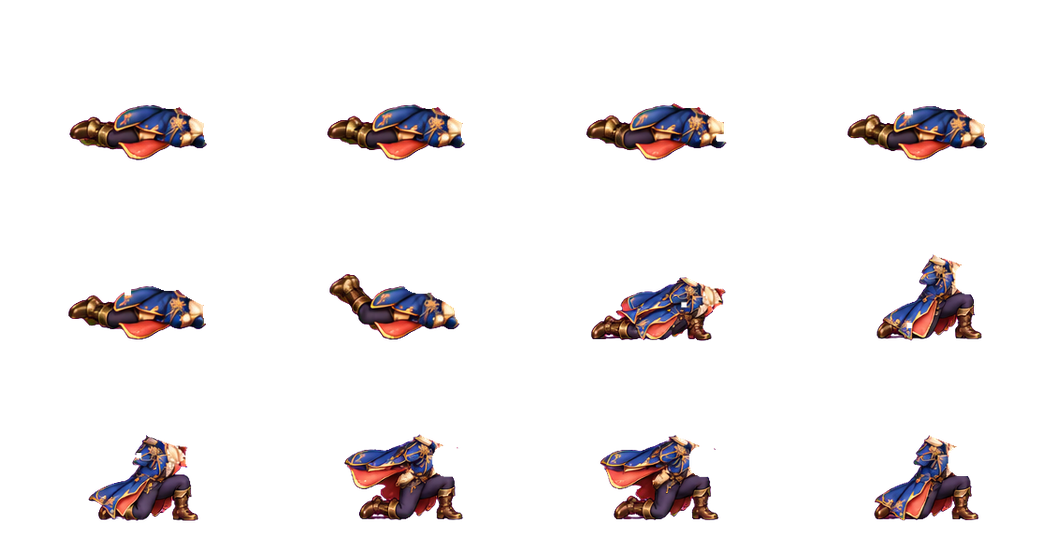
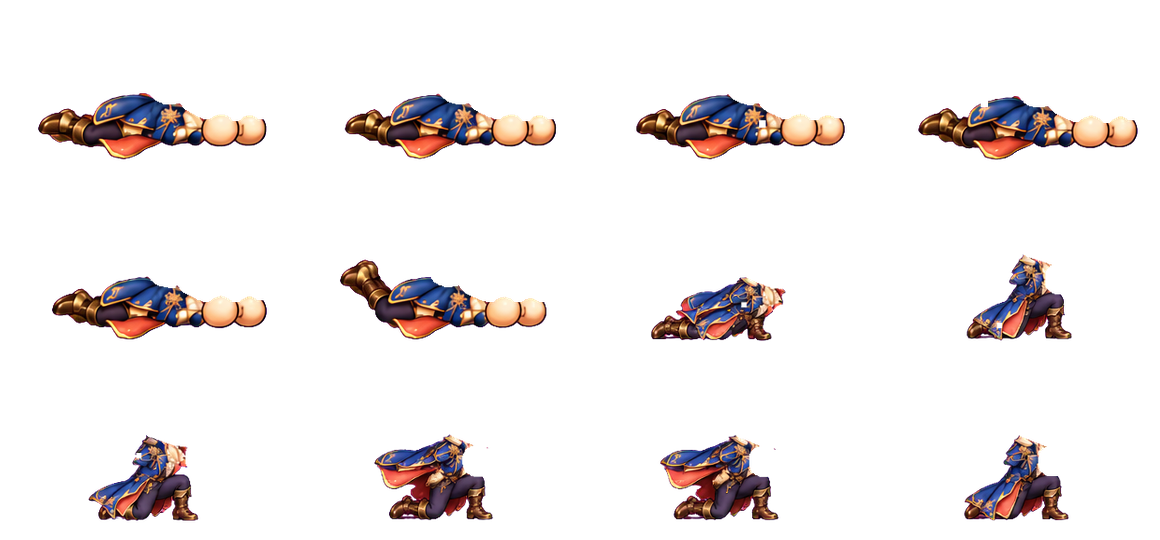
Combat: painted round fists in the prone sheet (DDTank), per-frame hands flag; lobby walk sheet support
Claude-Session: https://claude.ai/code/session_01SNM3Fnyw111WXwJ74f5KjW

diff --git a/src/game/avatar.ts b/src/game/avatar.ts
@@ -4,6 +4,7 @@ import {drawWeaponEnergy} from './weaponEffects';
 import type {CombatRig,WalkingLeg} from './appearance';
 import {asset,avatarRig,AVATAR_UNIT,drawHeadLayers,drawHeadRearLayers,drawPart,ellipse,getFacePortrait,visual} from './appearance';
 import {drawCombatBody,hasCombatFrames} from './combatBody';
+import {drawWalkBody,hasWalkFrames} from './walkBody';
 import {COSTUMES,drawCostume,hasProneCostume} from './costumes';
 import {FACE_REGISTRATION} from './faces';
 import {idleHeadTilt} from './faceExpressions';
@@ -296,8 +297,10 @@ export function drawAvatar(c:CanvasRenderingContext2D,eq:Equipment,x:number,y:nu
    c.restore();c.restore();c.restore();return;
   }
   const rawWalk=rig.walking?clamp((walk-.04)/.75,0,1)*(1-lie):0,walkBlend=rawWalk>.08?1:0,rootY=bounce+m.bodyY,step=WALK_STEP*Math.max(.25,rawWalk);
+  // Outfits with a painted walk cycle (DDTank) switch whole paintings by distance walked; the bob is painted.
+  const sheetWalk=walkBlend>.001&&hasWalkFrames(eq.outfit),distance=m.phase*WALK_STEP*4/(Math.PI*2);
   // Switch one opaque silhouette at contact; alpha-crossfading two sets of legs creates ghost feet.
-  if(rig.walking&&walkBlend>.001){
+  if(rig.walking&&walkBlend>.001&&!sheetWalk){
    c.save();c.globalAlpha*=walkBlend;
    if(rig.walking.hollow){c.save();c.translate(0,rootY);c.translate(0,-32);c.rotate(m.lean);c.translate(0,32);drawPart(c,rig.walking.hollow);c.restore();}
    // The painted stance spreads the legs for a 3/4 view. Walking from that spread
@@ -308,9 +311,12 @@ export function drawAvatar(c:CanvasRenderingContext2D,eq:Equipment,x:number,y:nu
    for(const frame of [far,near])if(frame.grounded)ellipse(c,frame.ankle[0]+2,Math.tan(slope)*frame.ankle[0]-.5,6,1.4,'#10213235');
    drawWalkingLeg(c,rig.walking.far,far);drawWalkingLeg(c,rig.walking.near,near);c.restore();
   }
-  c.save();c.translate(-24*lie,rootY+14*lie);c.translate(0,-32);c.rotate(m.lean+lie*Math.PI/2);c.translate(0,32);
-  if(walkBlend<.999){c.save();c.globalAlpha*=1-walkBlend;drawPart(c,rig.stanceBody);c.restore();}
-  if(rig.walking&&walkBlend>.001){c.save();c.globalAlpha*=walkBlend;drawPart(c,rig.walking.torso);c.restore();}
+  c.save();c.translate(-24*lie,(sheetWalk?0:rootY)+14*lie);c.translate(0,-32);c.rotate(m.lean+lie*Math.PI/2);c.translate(0,32);
+  // While the walk atlas loads, the standing painting stands in for it.
+  const headShift=sheetWalk?drawWalkBody(c,eq,distance):null;
+  if(walkBlend<.999||sheetWalk&&!headShift){c.save();if(!sheetWalk)c.globalAlpha*=1-walkBlend;drawPart(c,rig.stanceBody);c.restore();}
+  if(rig.walking&&walkBlend>.001&&!sheetWalk){c.save();c.globalAlpha*=walkBlend;drawPart(c,rig.walking.torso);c.restore();}
+  if(headShift)c.translate(...headShift);
   c.save();const headPivotX=25*AVATAR_UNIT,headPivotY=-615*AVATAR_UNIT;c.translate(headPivotX,headPivotY);c.rotate(m.headTilt+Math.sin(time/1700)*.006+lively);c.scale(HEAD_SCALE,HEAD_SCALE);c.translate(-headPivotX,-headPivotY);drawHeadRearLayers(c,eq,time,pose,rig.modular);drawPart(c,rig.head);if(rig.neckCloth)drawPart(c,rig.neckCloth,0,0,-5);drawHeadLayers(c,eq,time,pose,rig.modular,context.face);c.restore();
   if(weapon){const level=eq.upgrade??0,w=asset(weaponAssetPath(eq.weapon,level));if(w.complete&&w.naturalWidth){
    c.save();const angle=aiming?-(clamp(context.angle??45,5,90)-35)*Math.PI/180:0;

diff --git a/src/game/combatBody.ts b/src/game/combatBody.ts
@@ -15,7 +15,7 @@ import atlases from './combatAtlas.json';
  * action, the universal head where that painting expects it, the universal skin-colored fists and the
  * weapon strapped on the back. */
 type Point=readonly [number,number];
-interface AtlasEntry {path:string;frames:{head:[number,number]}[];/** The painted sleeve's cloth color, continued by the code-drawn forearm. */sleeve?:string;}
+interface AtlasEntry {path:string;frames:{head:[number,number];/** Arms and fists are painted in this frame (DDTank): the game draws no hands. */hands?:boolean}[];/** The painted sleeve's cloth color, continued by the code-drawn forearm. */sleeve?:string;}
 const ATLASES=atlases as unknown as Record<string,AtlasEntry>;
 const tinted=new Map<string,HTMLCanvasElement>();
 
@@ -64,18 +64,19 @@ export function drawCombatBody(c:CanvasRenderingContext2D,eq:Equipment,head:Avat
  const cloth=eq.colors?.outfit??entry.sleeve??CATALOG[eq.outfit]?.color??'#2b3f9e';
  const arm=(k:0|1,to:Fist)=>{const [shoulder,elbow]=COMBAT_MANNEQUIN[name].sleeves[k],at=(p:Point):Point=>[p[0]+dx,p[1]+dy+breath*.4];
   drawArm(c,at(shoulder),at(elbow),to,cloth,eq.skin);};
- if(!prone){arm(0,fist(0));drawFist(c,eq.skin,fist(0),.9);}
+ const drawnHands=!entry.frames[index]?.hands;
+ if(drawnHands&&!prone){arm(0,fist(0));drawFist(c,eq.skin,fist(0),.9);}
  const atHead=(draw:()=>void)=>{c.save();c.translate(measured[0],measured[1]+breath);c.rotate(state.lively+hit*.05);c.scale(HEAD_SCALE,HEAD_SCALE);
   c.translate(-(HEAD_SILHOUETTE_CENTER[0]-625)*AVATAR_UNIT,-(HEAD_SILHOUETTE_CENTER[1]-1225)*AVATAR_UNIT);draw();c.restore();};
  // face: the head and the hair; then the outfit painting, then hat and glasses (DDTank's faceUp).
  atHead(()=>{drawHeadRearLayers(c,eq,state.time,state.pose,state.modular);drawPart(c,head);drawHeadLayers(c,eq,state.time,state.pose,state.modular,state.face,'hair');});
- if(prone)arm(0,fist(0));
- arm(1,fist(1));
+ if(drawnHands&&prone)arm(0,fist(0));
+ if(drawnHands)arm(1,fist(1));
  c.drawImage(atlas,sx,sy,cw,ch,-ox/ppu,-oy/ppu+breath*.4,cw/ppu,ch/ppu);
  atHead(()=>drawHeadLayers(c,eq,state.time,state.pose,state.modular,state.face,'top'));
  // The near fist goes over everything, under the chin while lying, like in DDTank.
- if(prone)drawFist(c,eq.skin,fist(0),1);
- const front=fist(1);drawFist(c,eq.skin,front,1,prone?.8:1);
+ if(drawnHands&&prone)drawFist(c,eq.skin,fist(0),1);
+ const front=fist(1);if(drawnHands)drawFist(c,eq.skin,front,1,prone?.8:1);
  if(state.weapon)drawThrowCue(c,name,state,front[0],front[1],color);
  c.restore();return true;
 }

diff --git a/src/game/walkBody.ts b/src/game/walkBody.ts
@@ -1,0 +1,33 @@
+import type {Equipment} from '../../shared/catalog';
+import {asset} from './appearance';
+import {recolorItem,tintSkin} from './recolor';
+import contract from './rig/walkFrames.json';
+import atlases from './walkAtlas.json';
+
+/** DDTank-style lobby walk (docs/walk-frames.md): the outfit's painted walk cycle, hands included, picked by
+ * the distance walked; the universal head goes on top where each painting expects it. */
+interface WalkAtlasEntry {path:string;standing:[number,number];frames:{head:[number,number]}[];}
+const ATLASES=atlases as unknown as Record<string,WalkAtlasEntry>;
+const {columns,cell:[cw,ch],origin:[ox,oy],pixelsPerUnit:ppu}=contract.atlas;
+const tinted=new Map<string,HTMLCanvasElement>();
+
+export const hasWalkFrames=(outfit:string)=>!!ATLASES[outfit];
+/** The outfit's walk atlas with its Color Ticket and the body color applied, or null while it loads. */
+function walkAtlas(eq:Equipment):HTMLCanvasElement|null {
+ const entry=ATLASES[eq.outfit];if(!entry)return null;
+ const image=asset(entry.path);if(!image.complete||!image.naturalWidth)return null;
+ const key=`${eq.outfit}:${eq.colors?.outfit??''}:${eq.skin??''}`,known=tinted.get(key);if(known)return known;
+ const out=document.createElement('canvas');out.width=image.naturalWidth;out.height=image.naturalHeight;out.getContext('2d')!.drawImage(image,0,0);
+ recolorItem(out,eq.outfit,eq.colors?.outfit);tintSkin(out,eq.skin,true);
+ tinted.set(key,out);if(tinted.size>24)tinted.delete(tinted.keys().next().value!);return out;
+}
+/** Frame for a distance walked in avatar units: each painting holds for `frameUnits`, so the feet never slide. */
+export const walkFrameIndex=(distance:number)=>{const n=contract.frames.length;return ((Math.floor(distance/contract.frameUnits)%n)+n)%n;};
+/** Draws the walking body facing right in avatar units from the contact point and returns how far the head
+ * moves from where the standing avatar wears it, or null when the outfit has no walk atlas (yet). */
+export function drawWalkBody(c:CanvasRenderingContext2D,eq:Equipment,distance:number):[number,number]|null {
+ const atlas=walkAtlas(eq),entry=ATLASES[eq.outfit];if(!atlas||!entry)return null;
+ const index=walkFrameIndex(distance),sx=(index%columns)*cw,sy=Math.floor(index/columns)*ch,head=entry.frames[index].head;
+ c.drawImage(atlas,sx,sy,cw,ch,-ox/ppu,-oy/ppu,cw/ppu,ch/ppu);
+ return [head[0]-entry.standing[0],head[1]-entry.standing[1]];
+}

diff --git a/scripts/build-walk-atlas.py b/scripts/build-walk-atlas.py
@@ -1,0 +1,127 @@
+"""Packs an outfit's Codex walk sheet (docs/combat-art-prompts/walk.txt, template docs/templates/walk.png)
+into the lobby walk atlas, like scripts/build-combat-atlas.py does for combat: per frame it keys the
+magenta out, finds the green head, scales the sheet so the head matches the universal head, removes the
+green and places the body in its atlas cell with the head at the standing avatar's x and the lowest
+painted row on the ground. The measured head height of every frame (the step's bob) goes to
+src/game/walkAtlas.json, so the game draws the player's head where the painting expects it.
+
+Usage: python3 scripts/build-walk-atlas.py <outfit-id> [walk.png]
+Default input: test-results/codex-walk/out/<id without outfit->-walk.png
+Output: public/assets/outfits/walk/<id>.png, src/game/walkAtlas.json, test-results/walk/<id>/"""
+import json, os, sys
+import numpy as np
+from PIL import Image, ImageDraw, ImageFilter
+
+contract = json.load(open('src/game/rig/walkFrames.json'))
+combat = json.load(open('src/game/rig/combatFrames.json'))
+T, A = contract['template'], contract['atlas']
+HS, unit, hs = combat['headSilhouette'], combat['avatarUnit'], contract['headScale']
+outfit = sys.argv[1]
+short = outfit.removeprefix('outfit-')
+path = sys.argv[2] if len(sys.argv) > 2 else f'test-results/codex-walk/out/{short}-walk.png'
+report_dir = f'test-results/walk/{outfit}'
+os.makedirs(report_dir, exist_ok=True)
+os.makedirs('public/assets/outfits/walk', exist_ok=True)
+
+head_px = HS['width'] * hs * unit * A['pixelsPerUnit']
+aspect = HS['height'] / HS['width']
+# Where the standing avatar wears the head (avatar units from the contact point): the silhouette's centre,
+# scaled by HEAD_SCALE about the head pivot, in the 1254 px avatar space centred on (625, 1225).
+px, py = contract['headPivot']
+standing = ((px + (HS['left'] + HS['width'] / 2 - px) * hs - 625) * unit, (py + (HS['top'] + HS['height'] / 2 - py) * hs - 1225) * unit)
+
+
+def unkey(rgb):
+    r, g, b = (rgb[..., k].astype(float) for k in range(3))
+    key = np.minimum(r, b) - g
+    alpha = np.clip((150 - key) / 110, 0, 1)
+    edge = (key > 40) & (key <= 150)
+    low = np.minimum(r, b)
+    r = np.where(edge, np.minimum(r, g + (r - low) + 40), r)
+    b = np.where(edge, np.minimum(b, g + (b - low) + 60), b)
+    return np.dstack([r, g, b, alpha * 255])
+
+
+def grow(mask, size):
+    return np.asarray(Image.fromarray((mask * 255).astype('uint8')).filter(ImageFilter.MaxFilter(size))) > 0
+
+
+src = Image.open(path).convert('RGB')
+if src.size != (T['cell'] * T['columns'], T['cell'] * T['rows']):
+    src = src.resize((T['cell'] * T['columns'], T['cell'] * T['rows']), Image.LANCZOS)
+rgb = np.asarray(src)
+rgba = unkey(rgb)
+r, g, b = (rgb[..., k].astype(float) for k in range(3))
+green = g - np.maximum(r, b)
+head_mask = (green > 90) & (g > 150)
+rim = (green > 35) & ~head_mask
+clean = rgba.copy()
+clean[grow(head_mask | rim, 7), 3] = 0
+
+issues, warnings, frames_meta = [], [], []
+atlas = Image.new('RGBA', (A['columns'] * A['cell'][0], A['rows'] * A['cell'][1]), (0, 0, 0, 0))
+measured = []
+for i, frame in enumerate(contract['frames']):
+    cx, cy = (i % T['columns']) * T['cell'], (i // T['columns']) * T['cell']
+    ys, xs = np.nonzero(head_mask[cy:cy + T['cell'], cx:cx + T['cell']])
+    if len(xs) < 500:
+        issues.append(f'{frame["name"]}: cabeça verde não encontrada')
+        measured.append(None)
+        continue
+    left, right, top = np.percentile(xs, 0.3), np.percentile(xs, 99.7), np.percentile(ys, 0.3)
+    measured.append(((left + right) / 2, top + (right - left + 1) * aspect / 2, right - left + 1))
+widths = [m[2] for m in measured if m]
+median = float(np.median(widths)) if widths else 1
+for m, frame in zip(measured, contract['frames']):
+    if m and abs(m[2] / median - 1) > .06:
+        warnings.append(f'{frame["name"]}: cabeça {m[2] / median:.0%} da mediana')
+scale = head_px / median
+for i, (m, frame) in enumerate(zip(measured, contract['frames'])):
+    if not m:
+        frames_meta.append(None)
+        continue
+    hx, hy, _ = m
+    cx, cy = (i % T['columns']) * T['cell'], (i // T['columns']) * T['cell']
+    figure = clean[cy:cy + T['cell'], cx:cx + T['cell']].copy()
+    sw, sh = median, median * aspect
+    mask = Image.new('L', (T['cell'], T['cell']), 0)
+    ImageDraw.Draw(mask).ellipse([hx - sw / 2, hy - sh / 2, hx + sw / 2, hy + sh * .2], fill=255)
+    figure[np.asarray(mask) > 0, 3] = 0
+    solid = np.nonzero(figure[..., 3] > 128)
+    if len(solid[0]) < 4000:
+        issues.append(f'{frame["name"]}: corpo quase vazio')
+        frames_meta.append(None)
+        continue
+    if np.concatenate([(figure[..., 3] > 128)[:3].ravel(), (figure[..., 3] > 128)[-3:].ravel(), (figure[..., 3] > 128)[:, :3].ravel(), (figure[..., 3] > 128)[:, -3:].ravel()]).any():
+        warnings.append(f'{frame["name"]}: pintura encosta na borda da célula')
+    ground = solid[0].max() + 1
+    piece = Image.fromarray(figure.astype('uint8'), 'RGBA').resize((round(T['cell'] * scale), round(T['cell'] * scale)), Image.LANCZOS)
+    ax = (i % A['columns']) * A['cell'][0] + A['origin'][0]
+    ay = (i // A['columns']) * A['cell'][1] + A['origin'][1]
+    ox, oy = round(ax + standing[0] * A['pixelsPerUnit'] - hx * scale), round(ay - ground * scale)
+    layer = Image.new('RGBA', atlas.size, (0, 0, 0, 0))
+    layer.paste(piece, (ox, oy))
+    box = ((i % A['columns']) * A['cell'][0], (i // A['columns']) * A['cell'][1])
+    own = layer.crop((box[0], box[1], box[0] + A['cell'][0], box[1] + A['cell'][1]))
+    lost = np.asarray(layer)[..., 3].astype(bool).sum() - np.asarray(own)[..., 3].astype(bool).sum()
+    if lost > 50:
+        warnings.append(f'{frame["name"]}: {lost} px fora da célula do atlas')
+    atlas.alpha_composite(own, box)
+    frames_meta.append({'head': [round(standing[0], 2), round((hy - ground) * scale / A['pixelsPerUnit'], 2)]})
+
+atlas_path = f'public/assets/outfits/walk/{outfit}.png'
+complete = all(frames_meta) and not issues
+if complete:
+    atlas.save(atlas_path, optimize=True)
+    meta_path = 'src/game/walkAtlas.json'
+    meta = json.load(open(meta_path)) if os.path.exists(meta_path) else {}
+    meta[outfit] = {'path': '/' + atlas_path.removeprefix('public/'), 'standing': [round(v, 2) for v in standing], 'frames': frames_meta}
+    json.dump(dict(sorted(meta.items())), open(meta_path, 'w'), indent=1)
+atlas.save(f'{report_dir}/atlas.png')
+json.dump({'outfit': outfit, 'complete': complete, 'issues': issues, 'warnings': warnings, 'standingHead': standing, 'frames': frames_meta}, open(f'{report_dir}/report.json', 'w'), indent=1)
+print(f'{outfit}: {"OK" if complete else "INCOMPLETO"} -> {atlas_path if complete else report_dir}')
+for line in issues:
+    print('ERRO', line)
+for line in warnings:
+    print('AVISO', line)
+sys.exit(0 if complete else 1)

diff --git a/scripts/build-combat-atlas.py b/scripts/build-combat-atlas.py
@@ -1,14 +1,14 @@
 """Packs an outfit's two Codex combat sheets (docs/combat-frames.md) into the game's combat atlas.
 
-Each sheet is 3x2 cells of 512 px on magenta with the head as a flat green silhouette and the two fists
-as cyan discs (the game draws the universal fists there). Per frame this script keys the magenta and the
+Each sheet is 3x2 cells of 512 px on magenta with the head as a flat green silhouette; the hands are painted
+in the sheet over the template's skin discs, like DDTank (older sheets left cyan discs for code-drawn fists). Per frame this script keys the magenta and the
 cyan out, finds the green head (top and width; fists may cover the chin), scales the
 sheet so the head matches the universal head, removes the green, and places the body in its atlas cell
 with the head at the contract's x and the lowest painted row on the ground line. The measured head
 height of every frame goes to src/game/combatAtlas.json, so the game puts the player's head exactly
 where the painting expects it. No per-outfit numbers.
 
-Usage: python3 scripts/build-combat-atlas.py <outfit-id> [ground.png throw.png]
+Usage: python3 scripts/build-combat-atlas.py <outfit-id> [ground.png throw.png]   ('-' keeps that sheet's frames from the current atlas)
        python3 scripts/build-combat-atlas.py --fist fist.png   (the universal fist, docs/combat-art-prompts/fist.txt)
 Default input: test-results/codex-combat/out/<id without outfit->-{ground,throw}.png
 Output: public/assets/outfits/combat/<id>.png, src/game/combatAtlas.json, test-results/combat/<id>/"""
@@ -66,7 +66,22 @@ issues, frames_meta, warnings = [], [None] * len(NAMES), []
 atlas = Image.new('RGBA', (A['columns'] * A['cell'][0], A['rows'] * A['cell'][1]), (0, 0, 0, 0))
 silhouette = None
 size_limits = []
+previous = json.load(open('src/game/combatAtlas.json')).get(outfit) if os.path.exists('src/game/combatAtlas.json') else None
 for sheet, path in zip(contract['sheets'], inputs):
+    if path == '-':
+        # Keep this sheet as it is in the current atlas (repainting one sheet at a time).
+        old = Image.open(f'public/assets/outfits/combat/{outfit}.png').convert('RGBA')
+        (ow, oh), (oox, ooy) = previous.get('cell', [260, 180]), previous.get('origin', [160, 160])
+        for name in sheet['frames']:
+            index = NAMES.index(name)
+            box = ((index % A['columns']) * A['cell'][0], (index // A['columns']) * A['cell'][1])
+            src = ((index % A['columns']) * ow, (index // A['columns']) * oh)
+            piece = old.crop((*src, src[0] + ow, src[1] + oh))
+            layer = Image.new('RGBA', tuple(A['cell']), (0, 0, 0, 0))
+            layer.paste(piece, (A['origin'][0] - oox, A['origin'][1] - ooy))
+            atlas.alpha_composite(layer, box)
+            frames_meta[index] = previous['frames'][index]
+        continue
     src = Image.open(path).convert('RGB')
     if src.size != (T['cell'] * T['columns'], T['cell'] * T['rows']):
         src = src.resize((T['cell'] * T['columns'], T['cell'] * T['rows']), Image.LANCZOS)
@@ -78,6 +93,8 @@ for sheet, path in zip(contract['sheets'], inputs):
     r_, g_, b_ = (rgb[..., k].astype(float) for k in range(3))
     cyan = (np.minimum(g_, b_) - r_ > 60) & (g_ > 120) & (b_ > 120)
     rgba[grow(cyan, 7), 3] = 0
+    # Fists painted in the skin tone over the template's discs: the game draws no hands on these frames.
+    hands = cyan.sum() < 200
     # Anti-aliased rim between the green head and the body or the background.
     rim = (green > 35) & ~head_mask
     measured = []
@@ -118,6 +135,15 @@ for sheet, path in zip(contract['sheets'], inputs):
         sw, sh = median, median * aspect
         mask = Image.new('L', (T['cell'], T['cell']), 0)
         ImageDraw.Draw(mask).ellipse([hx - cx - sw / 2, hy - cy - sh / 2, hx - cx + sw / 2, hy - cy + sh * .2], fill=255)
+        # ...except the painted arms and fists, which may cross the head's lower half (the wind-up).
+        keep = ImageDraw.Draw(mask)
+        ox_, oy_ = sheet['origin']
+        for k_, (fx, fy, _) in enumerate(contract['frames'][name]['fists']):
+            elbow = contract['mannequin'][name]['sleeves'][k_][1]
+            P = lambda q: (ox_ + q[0] * T['pixelsPerUnit'], oy_ + q[1] * T['pixelsPerUnit'])
+            keep.line([P(elbow), P((fx, fy))], fill=0, width=round(10 * T['pixelsPerUnit']))
+            r = contract['fist']['size'] * .7 * T['pixelsPerUnit']
+            x, y = P((fx, fy)); keep.ellipse([x - r, y - r, x + r, y + r], fill=0)
         figure[np.asarray(mask) > 0, 3] = 0
         # Optional per-sheet shrink of an older, bigger painting: the body scales about the chin, so the
         # neck stays under the head and the head comes down with the smaller body.
@@ -154,7 +180,7 @@ for sheet, path in zip(contract['sheets'], inputs):
             warnings.append(f'{name}: {lost} px fora da célula do atlas')
         atlas.alpha_composite(own, box)
         head_y = (hy - cy - ground) * scale / A['pixelsPerUnit']
-        frames_meta[index] = {'head': [spec['head'][0], round(head_y, 2)]}
+        frames_meta[index] = {'head': [spec['head'][0], round(head_y, 2)], **({'hands': True} if hands else {})}
 
 def mannequin_size(body):
     """Width and height of the template's gray body in avatar units (same widths as make-combat-templates.py)."""
@@ -173,7 +199,7 @@ if complete:
     atlas.save(atlas_path, optimize=True)
     meta_path = 'src/game/combatAtlas.json'
     meta = json.load(open(meta_path)) if os.path.exists(meta_path) else {}
-    meta[outfit] = {'path': '/' + atlas_path.removeprefix('public/'), 'frames': frames_meta}
+    meta[outfit] = {**meta.get(outfit, {}), 'path': '/' + atlas_path.removeprefix('public/'), 'cell': A['cell'], 'origin': A['origin'], 'frames': frames_meta}
     json.dump(dict(sorted(meta.items())), open(meta_path, 'w'), indent=1)
 atlas.save(f'{report_dir}/atlas.png')
 json.dump({'outfit': outfit, 'complete': complete, 'issues': issues, 'warnings': warnings, 'frames': dict(zip(NAMES, frames_meta))}, open(f'{report_dir}/report.json', 'w'), indent=1)
